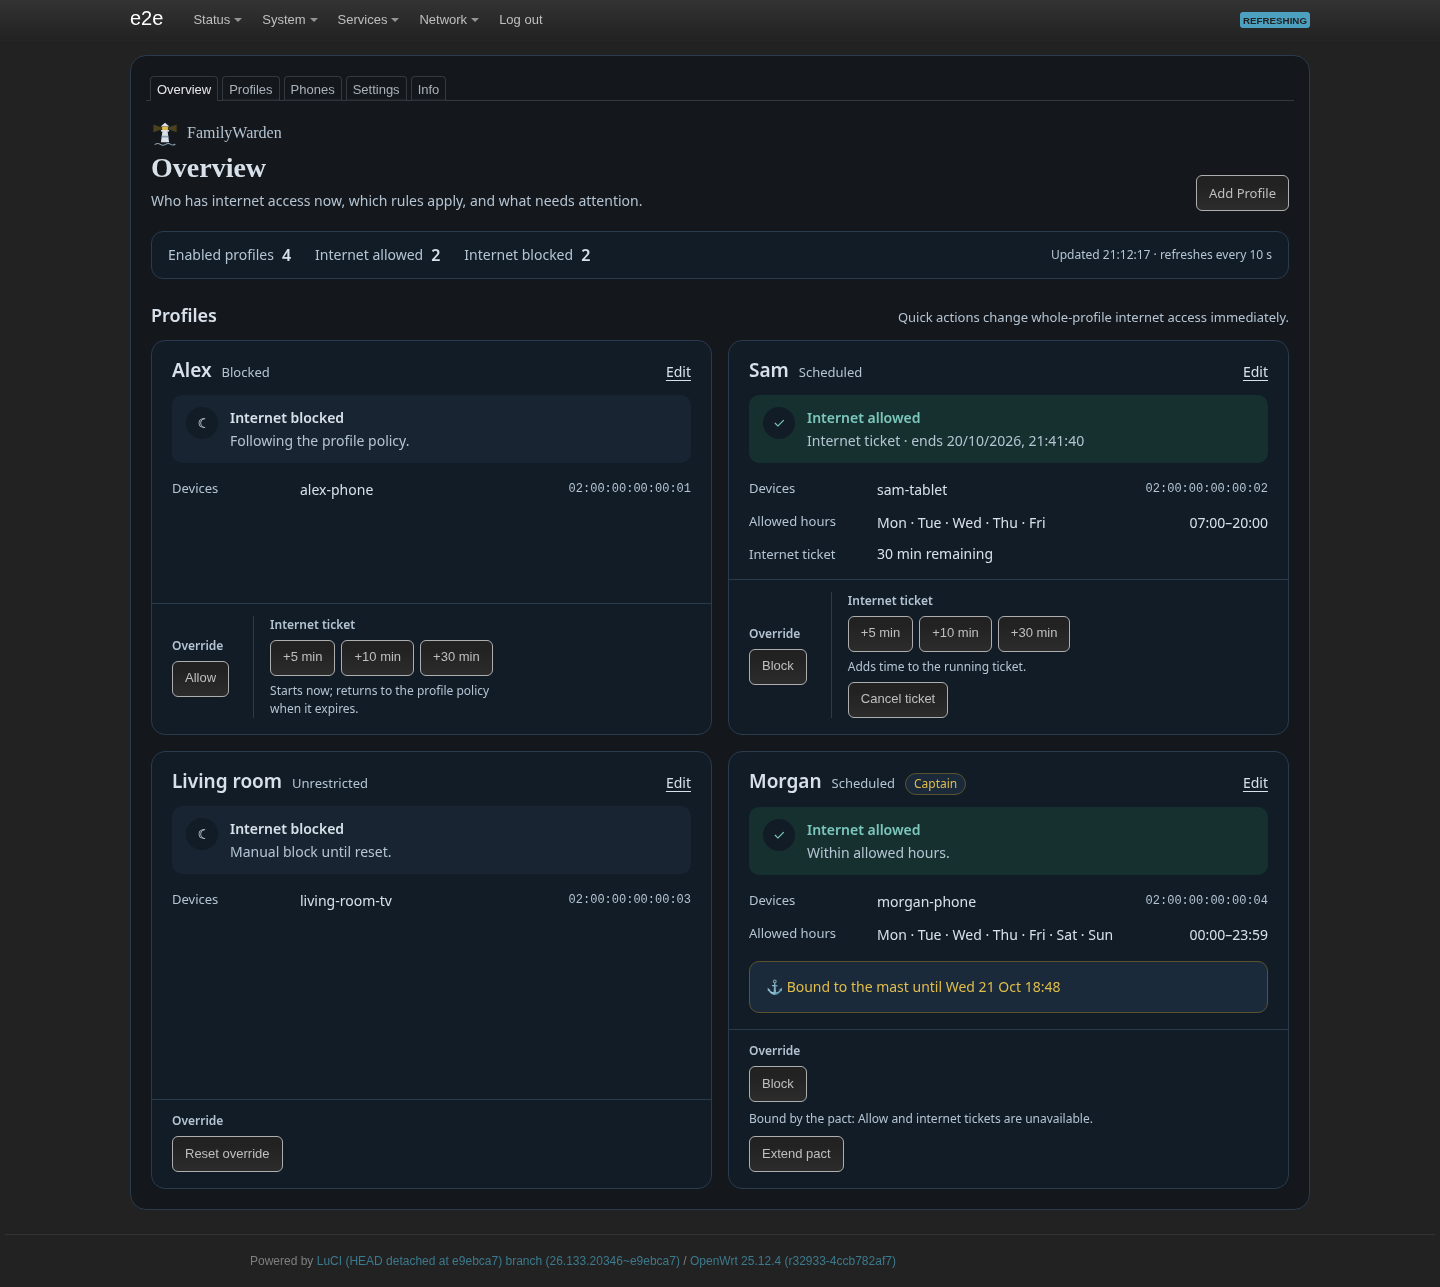
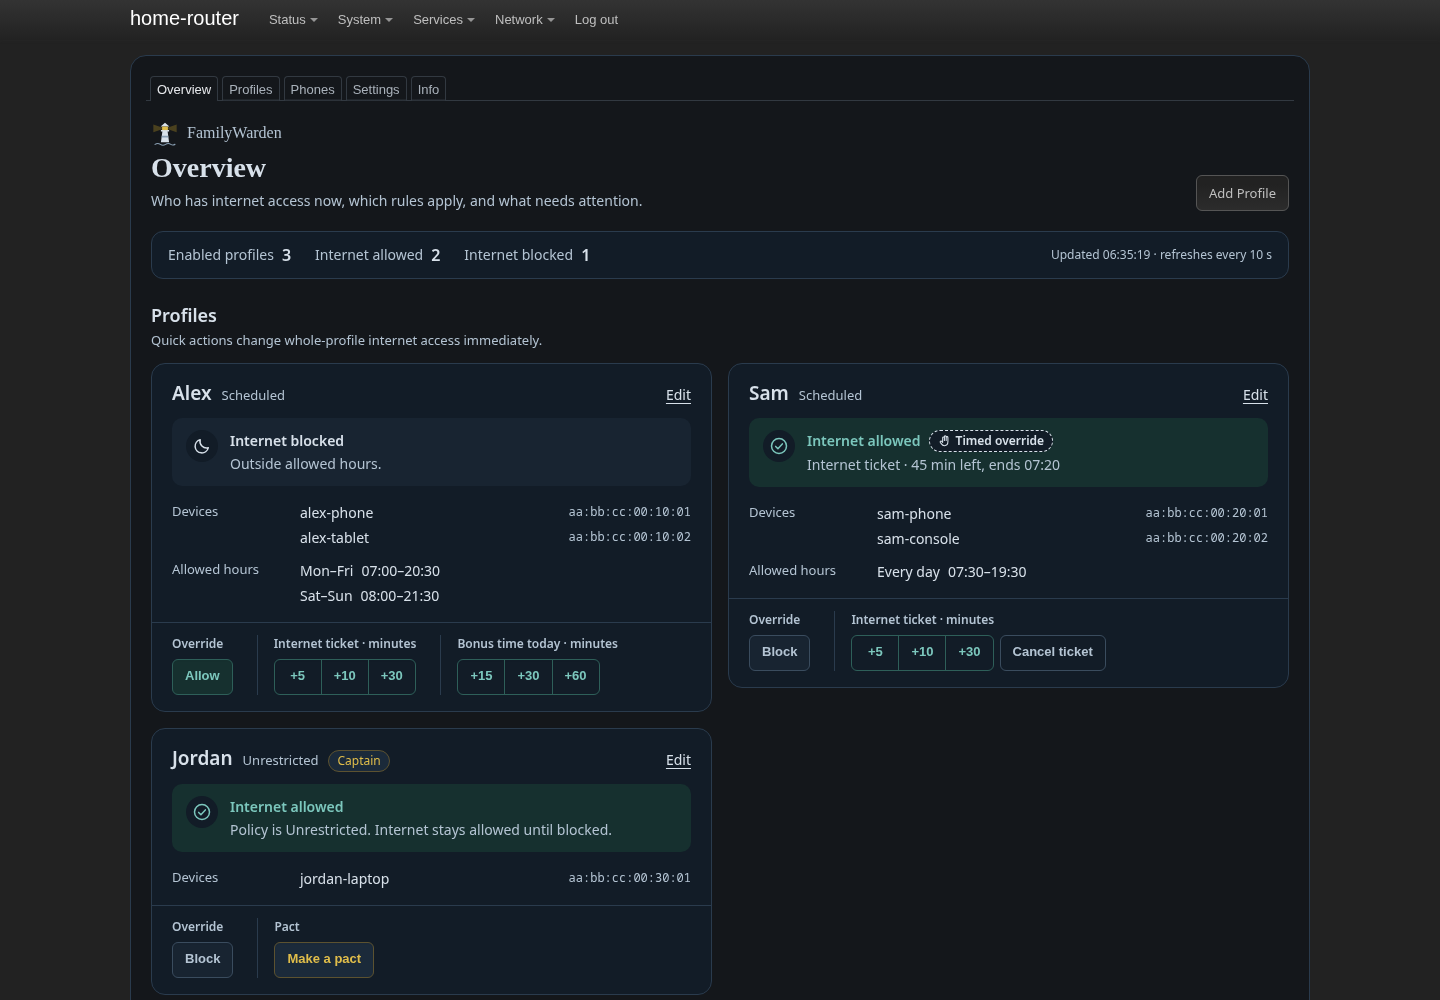
README: desktop and phone screenshots of a fictional family

diff --git a/README.md b/README.md
@@ -15,18 +15,36 @@ phone at home and away, and optionally enforces Ulysses on hotspot and tethering
 only gets a policy after an administrator approves it in LuCI by comparing its fingerprint.
 English and Danish. Status and open items: [plans/android-implementation.md](plans/android-implementation.md).
 
+In development (not released yet): screen time and app limits in the style of Google
+Family Link, and **extra-time requests** — a child asks for more minutes, a parent approves
+or declines on their own phone (no Device Owner needed), and the approved minutes expire
+two hours after approval without changing the standing rules.
+
 <p>
-<img src="docs/screenshots/overview-dark.png" width="200" alt="Overview in dark mode: DNS setup pending and hotspot locked by a pact">
-<img src="docs/screenshots/awaiting-approval.png" width="200" alt="Waiting for the administrator's approval, showing the phone's key fingerprint">
-<img src="docs/screenshots/dns-not-applied.png" width="200" alt="Android refused the DNS resolver; the app says so instead of claiming protection">
-<img src="docs/screenshots/ulysses.png" width="200" alt="Ulysses: hotspot locked by an ongoing pact">
+<img src="docs/screenshots/app-today.png" width="200" alt="Child's Today screen: 38 minutes of screen time left, per-app limits and always-allowed apps">
+<img src="docs/screenshots/app-parent-requests.png" width="200" alt="Parent phone: pending extra-time requests from Alex and Sam with Approve and Decline">
+<img src="docs/screenshots/app-extra-time.png" width="200" alt="Child's Today screen after approval: about 20 extra minutes left for Video">
+<img src="docs/screenshots/app-times-up-dark.png" width="200" alt="Time's up for today in dark mode; calls, emergency calls and the alarm clock still work">
 </p>
 
-### Children's Google accounts (planned app control)
+### LuCI (router web interface)
 
-The planned setup uses a separate, ordinary (non-Family-Link-supervised) Google account
-for each child, with FamilyWarden providing app limits and usage reporting. These
-app-control features are **not implemented yet**; see [the plan](plans/app-control.md).
+<p>
+<img src="docs/screenshots/luci-overview-light.png" width="820" alt="LuCI overview: Alex blocked outside allowed hours, Sam on a 45-minute internet ticket, Jordan as Ulysses captain">
+</p>
+<p>
+<img src="docs/screenshots/luci-profile-apps.png" width="405" alt="Profile editor: daily screen time for weekdays and weekends, always-allowed apps and allowed internet windows">
+<img src="docs/screenshots/luci-phones.png" width="405" alt="Phones page: a new phone waiting for fingerprint approval above the approved phones">
+</p>
+
+Screenshots use a fictional family and are regenerated with
+`scripts/capture-readme-screenshots.sh` (throwaway containers and emulator only).
+
+### Children's Google accounts (app control)
+
+The intended setup uses a separate, ordinary (non-Family-Link-supervised) Google account
+for each child, with FamilyWarden providing app limits and usage reporting. App control is
+**in development and not released**; see [the plan](plans/app-control.md).
 
 **Google account warning:** Using an unsupervised account for a child below Google's
 applicable minimum age may violate Google's account rules and could result in account
